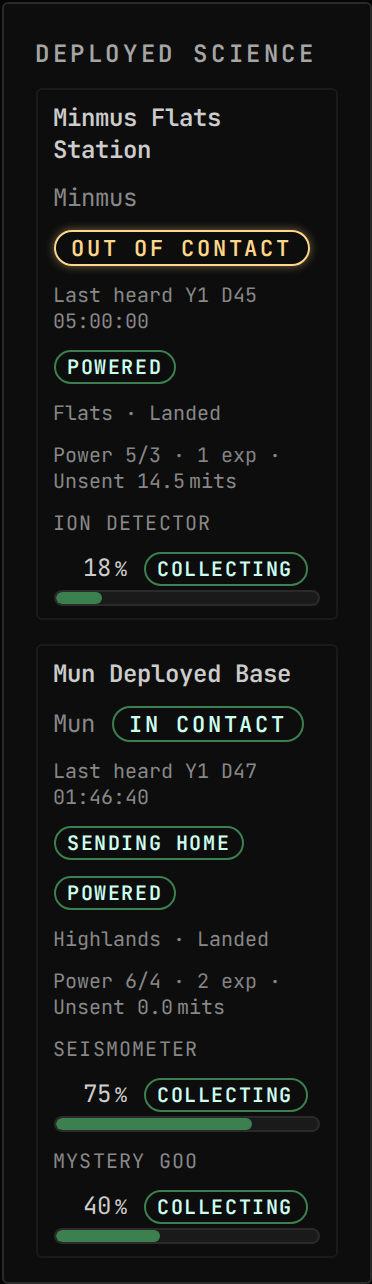
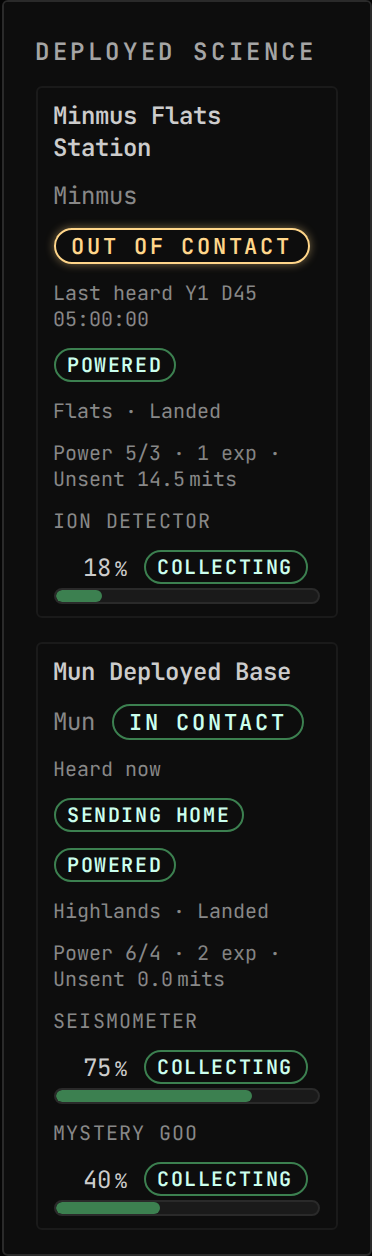
fix(science): a deployed science station in contact reads heard now, not the time contact began

Changed region(s): [[0.0296, 0.0, 0.9758, 0.9626], [0.414, 0.0621, 0.4435, 0.0932]]

diff --git a/mod/GonogoBreakingGroundUplink/client/src/DeployedScience/index.test.tsx b/mod/GonogoBreakingGroundUplink/client/src/DeployedScience/index.test.tsx
@@ -178,6 +178,26 @@ describe("DeployedScienceComponent", () => {
     expect(within(minmus).getByText(/14\.5/)).toBeInTheDocument();
   });
 
+  it("says a station in contact is heard now rather than dating it from when contact began", async () => {
+    const fixture = newFixture();
+    renderDeployed(fixture);
+    await emitStations(fixture, [
+      {
+        entry: {
+          vesselId: MUN_STATION,
+          name: "Mun Base",
+          contact: CatalogContact.InContact,
+          lastContactUt: 10,
+        },
+        report: stationReport({ stationName: "Mun Base" }),
+      },
+    ]);
+    const mun = await screen.findByRole("group", { name: "Mun Base" });
+
+    expect(within(mun).getByText("Heard now")).toBeInTheDocument();
+    expect(within(mun).queryByText(/Last heard/)).toBeNull();
+  });
+
   it("says no contact is on record rather than inventing a last-heard time", async () => {
     const fixture = newFixture();
     renderDeployed(fixture);

diff --git a/mod/GonogoBreakingGroundUplink/client/src/DeployedScience/DeployedStationCard.tsx b/mod/GonogoBreakingGroundUplink/client/src/DeployedScience/DeployedStationCard.tsx
@@ -149,7 +149,10 @@ export function DeployedStationCard({ listing }: { listing: StationListing }) {
           </Badge>
         </Cluster>
         <Text level="muted" style={XS2_STYLE}>
-          {listing.lastContactUt === null ? (
+          {listing.contact === CatalogContact.InContact ? (
+            // The catalog dates an entry in contact from when its listing last changed, which is not a running time.
+            "Heard now"
+          ) : listing.lastContactUt === null ? (
             "No contact on record"
           ) : (
             <>
